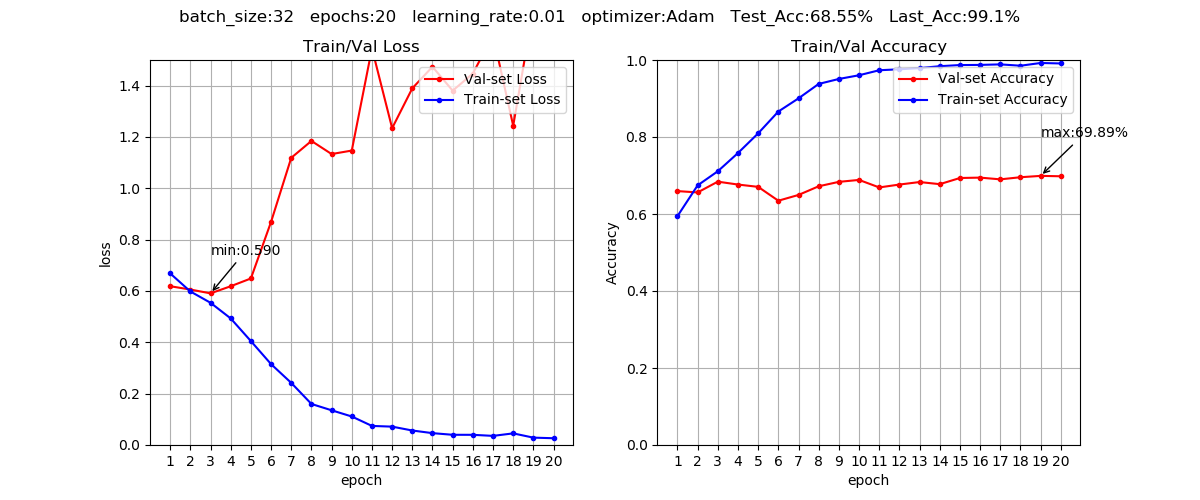
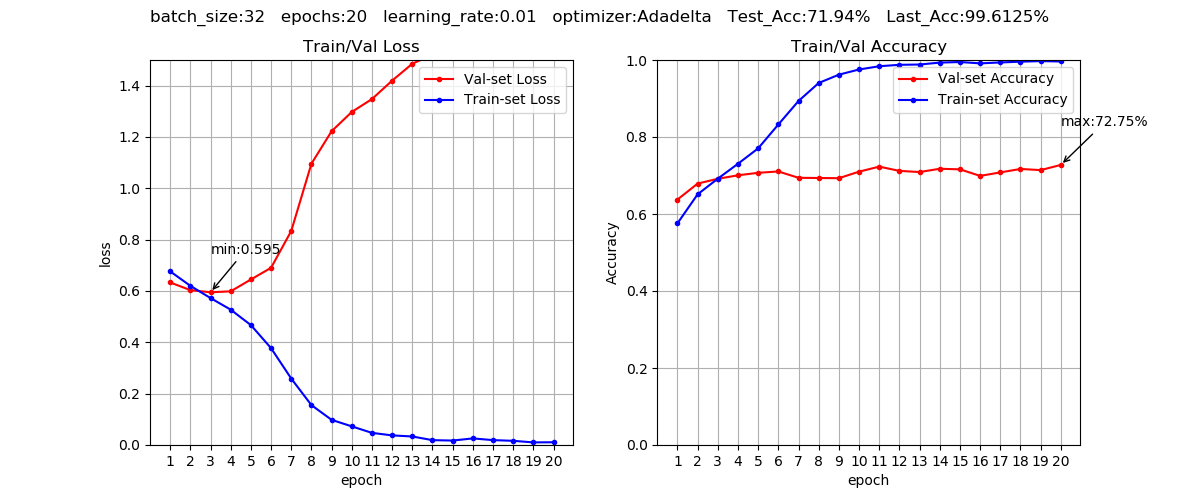
99.6125%
Former-commit-id: 944b3c2d1566831d97dde96359ba73db1b17cf25

diff --git a/main.py b/main.py
@@ -93,7 +93,7 @@ class ModelMgr():
         # 최적화 알고리즘 선택 [sgd, rmsprop, adagrad, adam 등]
         # hyper['optimizer'] = optimizers.sgd(lr=hyper['learning_rate'])  # default: SGD
         #hyper['optimizer'] = optimizers.rmsprop(lr=0.0001, decay=1e-6)
-        hyper['optimizer'] = optimizers.adam()
+        hyper['optimizer'] = optimizers.adadelta()
         result = 'batch_size: {}\nepochs: {}\nlearning_rage: {}\noptimizer: {}\n'.format(hyper['batch_size'], hyper['epochs'],\
                                                                                          hyper['learning_rate'], hyper['optimizer'])
         f.write(result)
